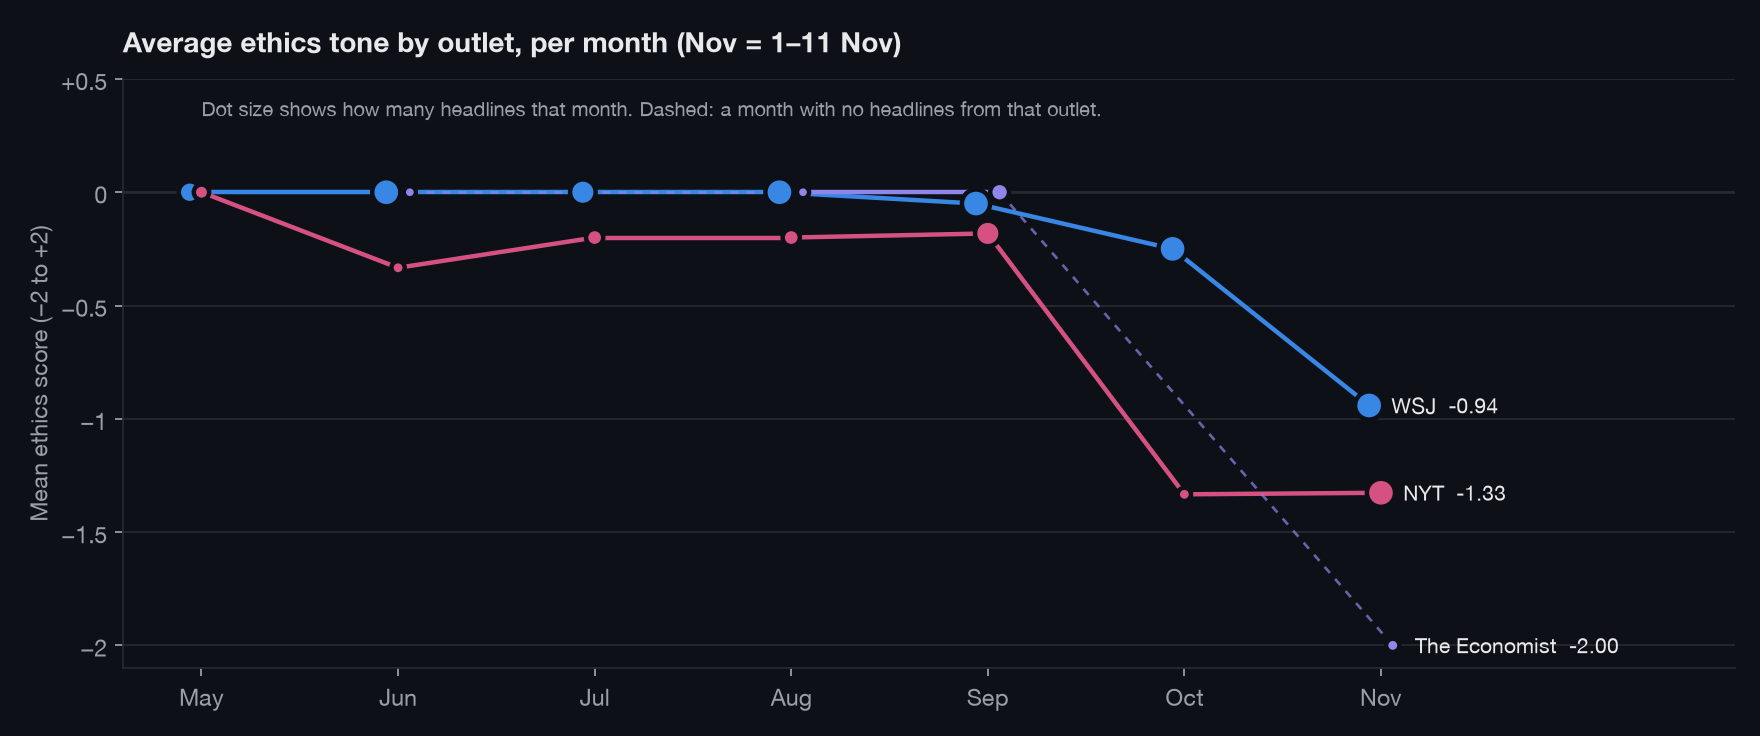
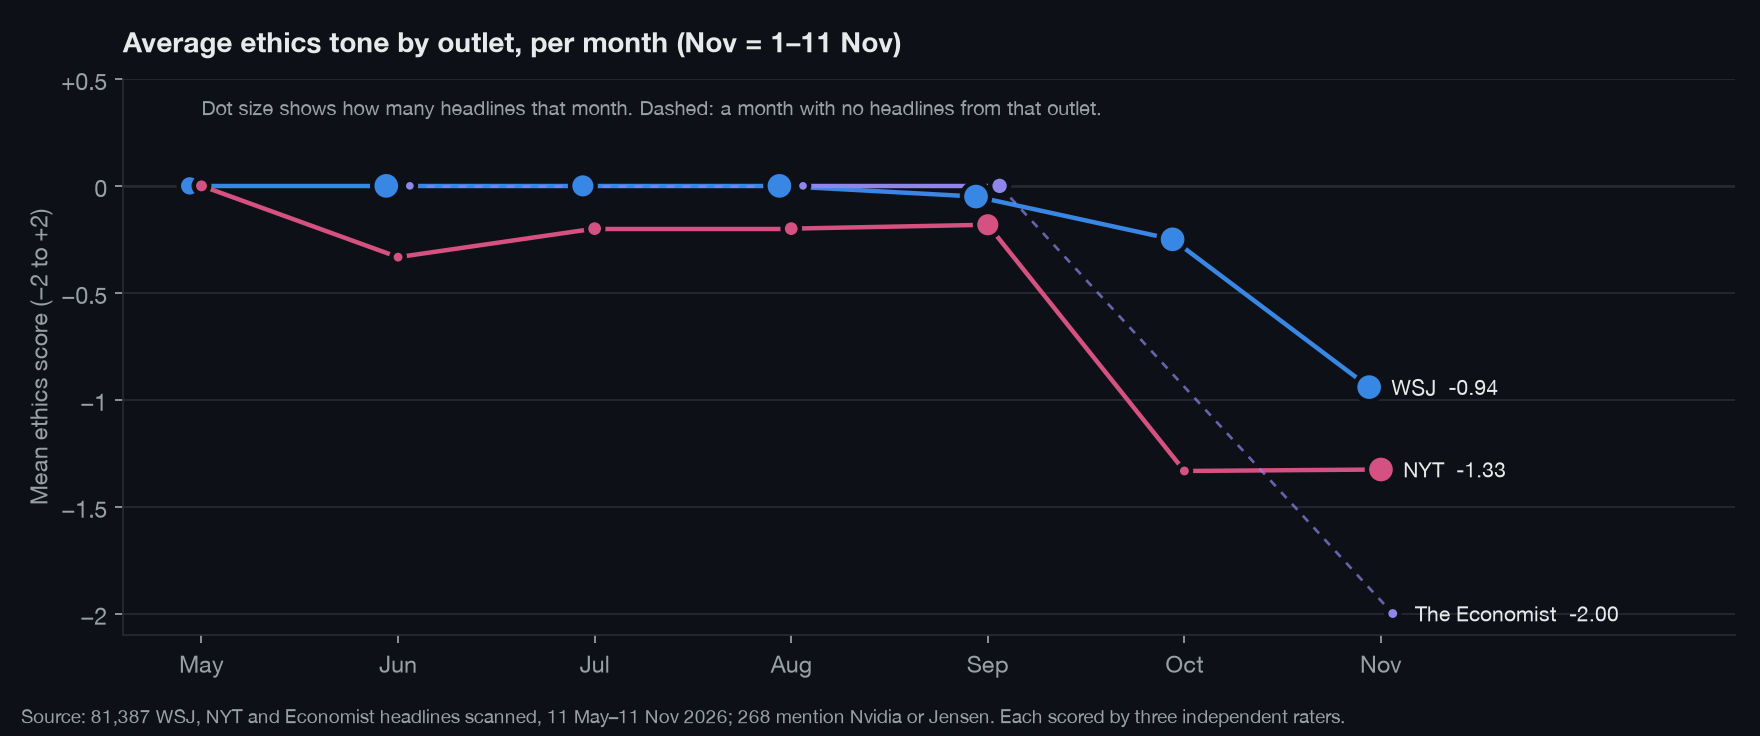
State the scanned corpus: 81,387 headlines, 268 kept
Adds data/corpus.json (pages read and headlines scanned per outlet) and a
source line on every chart and the preview image; README and the
interactive page now say how the 268 were found.

diff --git a/site/index.html b/site/index.html
@@ -49,7 +49,7 @@ details summary:focus-visible,a:focus-visible{outline:2px solid var(--fg);outlin
 <div class="wrap">
 <header>
 <h1>Nvidia and Jensen Huang: ethics sentiment in WSJ, NYT and The Economist</h1>
-<p class="sub">268 headlines containing "Nvidia" or "Jensen", 11 May to 11 Nov 2026, read from each outlet's own archive and search pages. Each headline was scored for ethics content by three independent raters on a five-point rubric; the chart uses the median score.</p>
+<p class="sub">We scanned 81,387 WSJ, NYT and Economist headlines from 11 May to 11 Nov 2026, every headline on 396 daily archive, sitemap and weekly edition pages. 268 of them contain "Nvidia" or "Jensen". Each headline was scored for ethics content by three independent raters on a five-point rubric; the chart uses the median score.</p>
 </header>
 
 <p class="lede">Ethics coverage turned sharply negative: <b>6% of headlines before 29 Oct were ethics-negative, against 82% from the midterm election (3 Nov) onward.</b> The break came on 29 Oct, five days before the election, when NYT reported that Huang was the target of a Chinese spy plot. The election does not explain the shift. The next jump, on 8 to 9 Nov, followed Huang admitting an affair and Nvidia's board opening a probe.</p>

diff --git a/scripts/analyze.py b/scripts/analyze.py
@@ -206,6 +206,23 @@ def week_x(d):
     return (d - WINDOW_START).days / 7 - 0.5
 
 
+def source_line(rows):
+    c = json.loads((ROOT / "data" / "corpus.json").read_text(encoding="utf-8"))
+    return (f"Source: {c['headlines_listed_total']:,} WSJ, NYT and Economist headlines scanned, 11 May–11 Nov 2026; "
+            f"{len(rows)} mention Nvidia or Jensen. Each scored by three independent raters.")
+
+
+SOURCE = ""
+
+
+def finish(fig, path):
+    """Lay out, add the source line at the foot, save, close."""
+    fig.tight_layout(rect=(0, 0.045, 1, 1))
+    fig.text(0.012, 0.012, SOURCE, fontsize=8.5, color=T["muted"], ha="left", va="bottom")
+    fig.savefig(path)
+    plt.close(fig)
+
+
 # ---------- charts ----------
 
 def weekly_chart(rows, path):
@@ -229,9 +246,7 @@ def weekly_chart(rows, path):
     marker(ax, week_x(MIDTERMS), "3 Nov: midterms", 1.09, "left")
     title(ax, "Share of Nvidia/Jensen headlines by ethics tone, per week (count above bar)", 40)
     legend(ax, CLASS_NAMES, T["tone"])
-    fig.tight_layout()
-    fig.savefig(path)
-    plt.close(fig)
+    finish(fig, path)
 
 
 def daily_chart(rows, path):
@@ -257,9 +272,7 @@ def daily_chart(rows, path):
     ax.set_ylabel("Headlines per day")
     title(ax, "The 17 days around the election", 34)
     legend(ax, CLASS_NAMES, T["tone"])
-    fig.tight_layout()
-    fig.savefig(path)
-    plt.close(fig)
+    finish(fig, path)
 
 
 def outlet_chart(summary, path):
@@ -285,9 +298,7 @@ def outlet_chart(summary, path):
     ax.spines["left"].set_visible(False)
     ax.tick_params(axis="y", length=0, labelsize=11, labelcolor=T["ink"])
     title(ax, "Ethics-negative share of headlines: before 29 Oct (grey) vs from 3 Nov (red)", 12)
-    fig.tight_layout()
-    fig.savefig(path)
-    plt.close(fig)
+    finish(fig, path)
 
 
 def volume_chart(rows, path):
@@ -314,9 +325,7 @@ def volume_chart(rows, path):
     title(ax, "How many Nvidia/Jensen headlines each outlet ran, per week", 34)
     totals = {o: sum(r["outlet"] == o for r in rows) for o in OUTLETS}
     legend(ax, [f"{o} ({totals[o]})" for o in OUTLETS], [T["outlet"][o] for o in OUTLETS], ncol=3)
-    fig.tight_layout()
-    fig.savefig(path)
-    plt.close(fig)
+    finish(fig, path)
 
 
 def outlet_tone_chart(rows, path):
@@ -351,9 +360,7 @@ def outlet_tone_chart(rows, path):
     ax.annotate("Dot size shows how many headlines that month. Dashed: a month with no headlines from that outlet.",
                 (0, 0.42), fontsize=9, color=T["muted"], va="top")
     title(ax, "Average ethics tone by outlet, per month (Nov = 1–11 Nov)", 12)
-    fig.tight_layout()
-    fig.savefig(path)
-    plt.close(fig)
+    finish(fig, path)
 
 
 def rater_chart(rows, summary, path):
@@ -379,9 +386,7 @@ def rater_chart(rows, summary, path):
     title(ax, f"Three raters, scored separately: identical on {ag['all_three_identical']} of {len(rows)} "
               f"headlines, never more than {ag['max_spread']} point apart", 12)
     ax.legend(frameon=False, loc="upper right", fontsize=9.5)
-    fig.tight_layout()
-    fig.savefig(path)
-    plt.close(fig)
+    finish(fig, path)
 
 
 def og_image(rows, summary, path):
@@ -414,8 +419,9 @@ def og_image(rows, summary, path):
     ax.set_ylim(0, 1)
     ax.set_xlim(-0.7, 26.7)
     ax.axis("off")
-    fig.text(0.06, 0.05, f"{summary['headlines']} headlines · three independent raters · weekly share of ethics-negative headlines",
-             color="#9a9fa6", fontsize=13)
+    scanned = json.loads((ROOT / "data" / "corpus.json").read_text(encoding="utf-8"))["headlines_listed_total"]
+    fig.text(0.06, 0.05, f"{scanned:,} headlines scanned · {summary['headlines']} mention Nvidia or Jensen · "
+             f"three independent raters · bars: weekly share ethics-negative", color="#9a9fa6", fontsize=13)
     fig.savefig(path, facecolor=bg)
     plt.close(fig)
 
@@ -469,6 +475,8 @@ def main():
     summary = summarise(rows)
     (ROOT / "data" / "summary.json").write_text(json.dumps(summary, indent=2) + "\n", encoding="utf-8")
     CHARTS.mkdir(exist_ok=True)
+    global SOURCE
+    SOURCE = source_line(rows)
     use_theme(CHART_THEME)
     for name, draw in CHART_SET.items():
         draw(rows, summary, CHARTS / f"{name}.png")

diff --git a/README.md b/README.md
@@ -2,7 +2,7 @@
 
 ![How ethics coverage of Jensen Huang turned](og-image.png)
 
-Every headline containing "Nvidia" or "Jensen" published by **The Wall Street Journal**, **The New York Times** and **The Economist** between 11 May and 11 Nov 2026, scored for ethics sentiment. The question was whether coverage of Jensen Huang turned negative after the US midterm elections on 3 Nov 2026.
+We scanned **81,387 headlines** published by **The Wall Street Journal**, **The New York Times** and **The Economist** between 11 May and 11 Nov 2026: every headline on 396 daily archive, sitemap and weekly edition pages. **268** of them contain "Nvidia" or "Jensen", and each of those was scored for ethics sentiment. The question was whether coverage of Jensen Huang turned negative after the US midterm elections on 3 Nov 2026.
 
 ## Finding
 
@@ -64,6 +64,17 @@ A separate audit of how the headlines are worded is in [`analysis/framing-audit.
 - **NYT:** the daily sitemaps for all 185 days, plus site search for "Nvidia" and "Jensen".
 - **The Economist:** the 26 weekly editions and site search.
 
+Those pages listed 81,387 headlines in all:
+
+| Outlet | Pages read | Headlines scanned | Kept |
+|---|---:|---:|---:|
+| WSJ | 185 daily archive pages | 19,053 | 177 |
+| NYT | 185 daily sitemap pages | 60,385 | 80 |
+| The Economist | 26 weekly editions | 1,949 | 11 |
+| **Total** | **396** | **81,387** | **268** |
+
+The NYT sitemap lists everything the paper publishes, including recipes, games and wire stories, which is why its count is so high. Site-search results added WSJ live-blog cards and podcasts that the archive leaves out; they mostly overlap with the archives and are not in the scanned count. The kept counts include them.
+
 A headline was kept if it contains "Nvidia" or "Jensen" (case-insensitive) and is dated in the window. Exact duplicates within an outlet were removed, leaving 268: WSJ 177, NYT 80, The Economist 11. No article text was collected or stored.
 
 **Scoring.** Three Claude Opus 5.5 instances scored every headline independently. Each saw only the headline and the outlet's one-line summary, not the other raters' scores. The rubric:
@@ -103,6 +114,7 @@ All three gave the same score on 243 of 268 headlines and never differed by more
 |---|---|
 | `data/headlines.csv`, `data/headlines.json` | One row per headline: `id`, `outlet`, `date`, `headline`, `print_headline` (Economist print title where it differs), `url`, `rater_a`, `rater_b`, `rater_c`, `median_score`, `about_huang` (1 if the headline names Huang or the CEO) |
 | `data/summary.json` | Every figure above, computed from the CSV |
+| `data/corpus.json` | Pages read and headlines scanned per outlet |
 | `scripts/analyze.py` | Recomputes `summary.json`, the charts, the preview image and the headline list in this README from the CSV |
 | `charts/` | The three charts above |
 | `site/index.html` | Interactive chart and full headline list |
